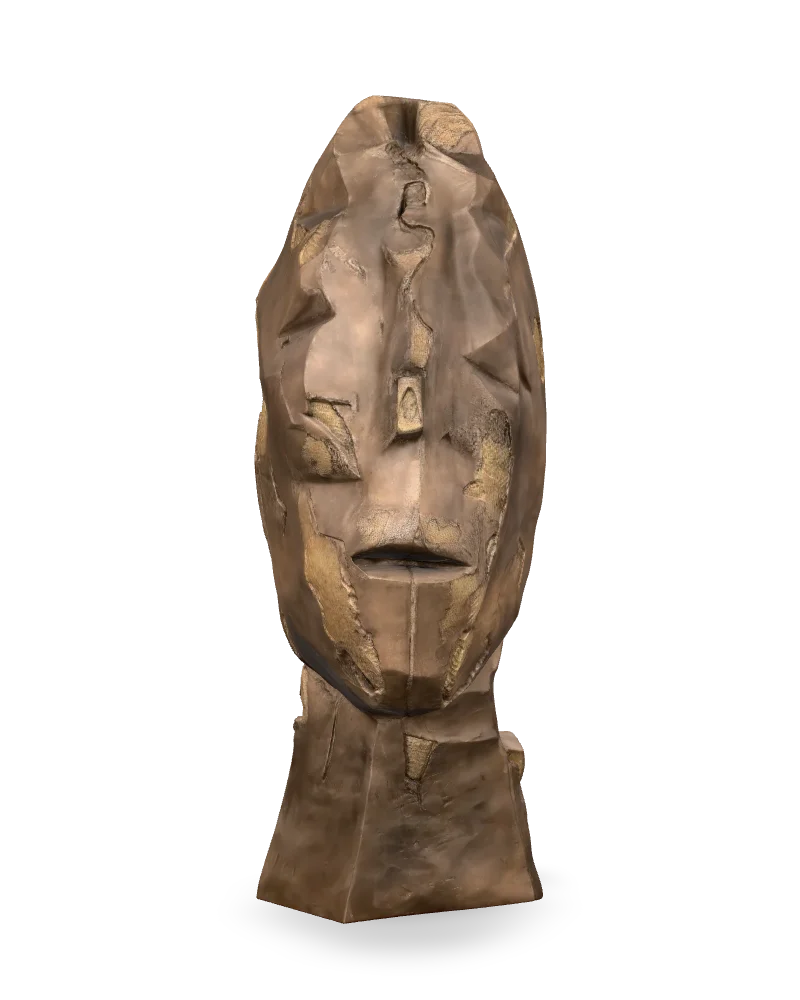
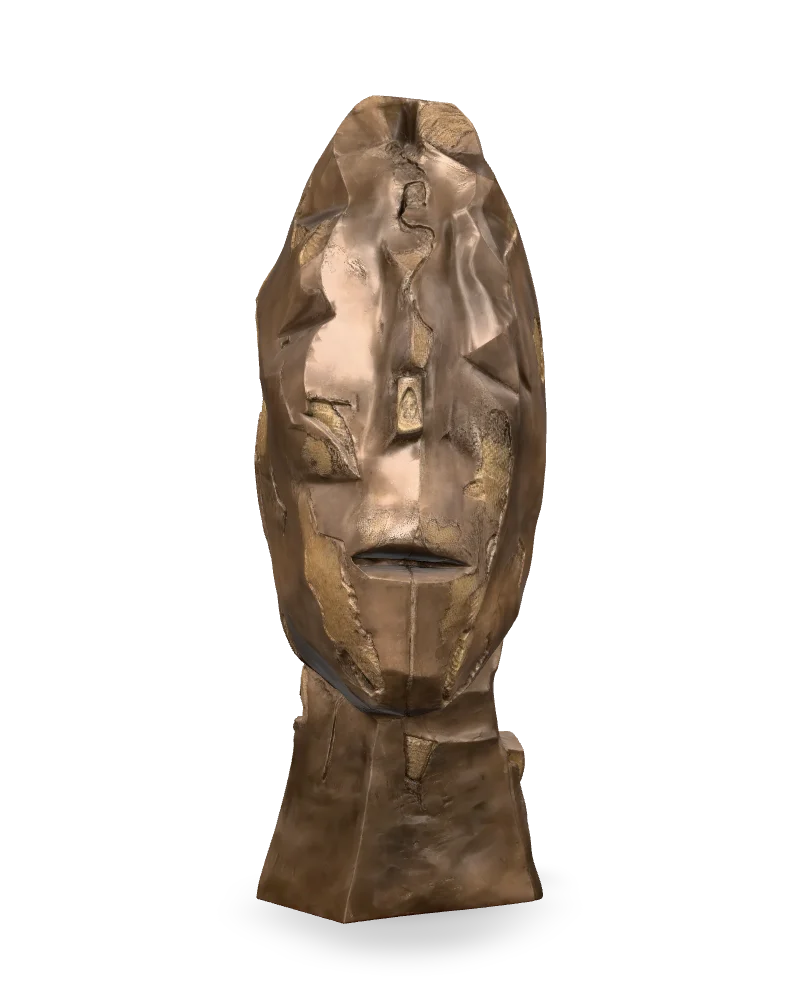
Faceted Head: new look from the look lab
Thumbnail rebuilt with it (?v=2).

diff --git a/lib/sculptures.ts b/lib/sculptures.ts
@@ -1009,9 +1009,9 @@ export const sculptures: Sculpture[] = [
     longDescription:
       "A tall, narrow head stands on a block-like neck that widens into a squared base. Its outline is a long oval, but the surface is broken into flat, angled facets, as if the form had been cut and folded rather than smoothed, so that edges and ridges catch the light across the whole face.\n\nA thin, winding groove runs down the middle of the forehead from the crown. Below it, a small raised rectangle with a rounded hollow sits where the bridge of the nose would be. The lips are full and slightly parted, set above a short straight line that drops to the chin. The eyes are not shown as such: angled planes and shallow recesses on either side take their place.\n\nThe bronze is a warm brown, and patches of a paler, golden tone are scattered over the cheeks, brow and neck, with rough, mottled texture inside them. At the top, the crown is cut flat with a notch in the centre. The bronze measures 52 × 19 × 26 inches, about 132 cm high, and comes from an edition of 5 plus an artist's proof. It is listed in its source as Untitled (Head).",
     artistSlug: "himmat-shah",
-    thumbnail: "/thumbnails/shah-faceted-head.webp",
+    thumbnail: "/thumbnails/shah-faceted-head.webp?v=2",
     modelUrl: "/sculptures/shah-faceted-head.glb",
-    look: { metalness: 0.15, roughness: 2.46, reflections: 0.6 },
+    look: { metalness: 0.3, roughness: 1.7, reflections: 0.6 },
     material: "Bronze",
     year: "",
     dimensions: "52 × 19 × 26 inches",
